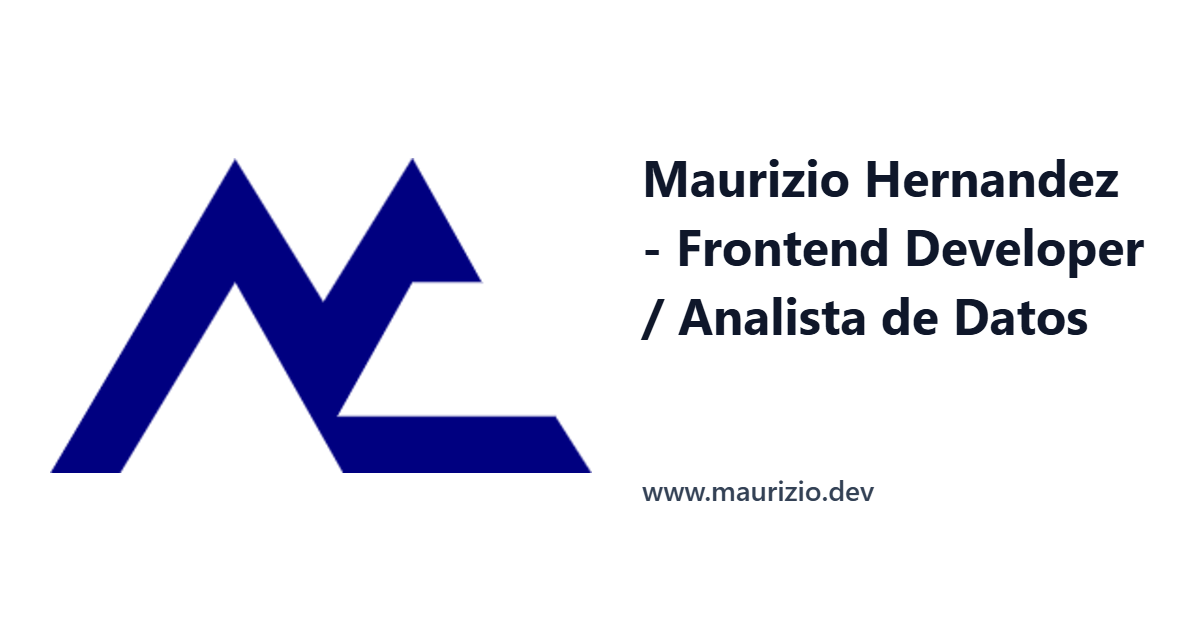
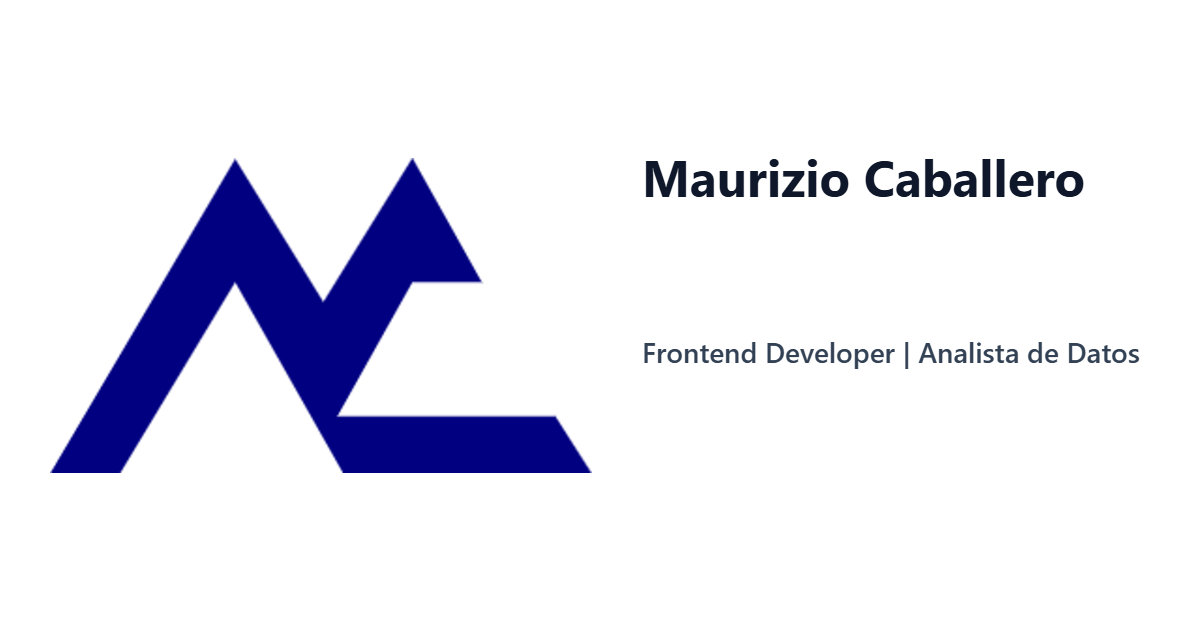
apellido caballero

diff --git a/pages/index.js b/pages/index.js
@@ -113,12 +113,12 @@ export default function Home({ initialView, initialId }) {
     <>
       <Head>
   {/* Título + descripción */}
-  <title>Maurizio Hernández — Frontend Developer (Portafolio)</title>
+  <title>Maurizio Caballero — Frontend Developer (Portafolio)</title>
   <meta
     name="description"
-    content="Portafolio de Maurizio Hernández: proyectos reales, stack (React/Next.js, Tailwind, Framer Motion) y contacto."
+    content="Portafolio de Maurizio Caballero: proyectos reales, stack (React/Next.js, Tailwind, Framer Motion) y contacto."
   />
-  <meta name="author" content="Maurizio Hernández" />
+  <meta name="author" content="Maurizio Caballero" />
   <meta name="application-name" content="devMauriz" />
   <meta name="robots" content="index,follow" />
 
@@ -127,8 +127,8 @@ export default function Home({ initialView, initialId }) {
 
   {/* Open Graph */}
   <meta property="og:type" content="website" />
-  <meta property="og:site_name" content="devMauriz · Maurizio Hernández" />
-  <meta property="og:title" content="Maurizio Hernández — Frontend Developer" />
+  <meta property="og:site_name" content="devMauriz · Maurizio Caballero" />
+  <meta property="og:title" content="Maurizio Caballero — Frontend Developer" />
   <meta
     property="og:description"
     content="Proyectos, experiencia y contacto. Especialista en React y Next.js."
@@ -144,7 +144,7 @@ export default function Home({ initialView, initialId }) {
 
   {/* Twitter Card */}
   <meta name="twitter:card" content="summary_large_image" />
-  <meta name="twitter:title" content="Maurizio Hernández — Frontend Developer" />
+  <meta name="twitter:title" content="Maurizio Caballero — Frontend Developer" />
   <meta
     name="twitter:description"
     content="Proyectos, experiencia y contacto. Especialista en React y Next.js."
@@ -164,7 +164,7 @@ export default function Home({ initialView, initialId }) {
         name: "devMauriz",
         url: siteUrl || "",
         inLanguage: "es-CL",
-        description: "Portafolio de Maurizio Hernández: proyectos, stack y contacto.",
+        description: "Portafolio de Maurizio Caballero: proyectos, stack y contacto.",
         potentialAction: {
           "@type": "SearchAction",
           target: `${siteUrl || ""}/?q={search_term_string}`,
@@ -179,7 +179,7 @@ export default function Home({ initialView, initialId }) {
       __html: JSON.stringify({
         "@context": "https://schema.org",
         "@type": "Person",
-        name: "Maurizio Hernández",
+        name: "Maurizio Caballero",
         jobTitle: "Frontend Developer",
         url: siteUrl || "",
         image: siteUrl ? `${siteUrl.replace(/\/$/, "")}/og/og-1200x630.png` : "/og/og-1200x630.png",

diff --git a/components/SectionAbout.jsx b/components/SectionAbout.jsx
@@ -233,13 +233,13 @@ const ctaBtn = [
   }
 
   // --------- SEO (solo cuando está visible) ----------
-  const aboutTitle = "Sobre mí — Maurizio Hernández"
+  const aboutTitle = "Sobre mí — Maurizio Caballero"
   const aboutDesc =
-    "Conoce a Maurizio Hernández: Frontend Developer (React, Next.js). Experiencia, habilidades, educación y diplomas."
+    "Conoce a Maurizio Caballero: Frontend Developer (React, Next.js). Experiencia, habilidades, educación y diplomas."
   const jsonLdPerson = {
     "@context": "https://schema.org",
     "@type": "Person",
-    name: "Maurizio Hernández",
+    name: "Maurizio Caballero",
     jobTitle: "Frontend Developer",
     description: aboutDesc,
     knowsAbout: [...technologies, ...tools],
@@ -508,7 +508,7 @@ const ctaBtn = [
     >
       <img
         src="/assets/perfil.jpg"
-        alt="Foto de Maurizio Hernández"
+        alt="Foto de Maurizio Caballero"
         className="h-full w-full object-cover object-top"
         onError={(e) => { e.currentTarget.src = "/placeholder.svg" }}
       />
@@ -519,7 +519,7 @@ const ctaBtn = [
 {/* Datos debajo del avatar */}
 <div className="text-center space-y-2 md:space-y-3 pt-2">
   {/* <h1 id="about-title" className="title-main !mb-0">Sobre mí</h1> */}
-  <h2 className="title-section !mb-1"> Hola, Soy Maurizio Hernández</h2>
+  <h2 className="title-section !mb-1"> Hola, Soy Maurizio Caballero</h2>
 
   <p className="text-responsive max-w-3xl mx-auto font-sans leading-relaxed">
     <span className="font-bold">Analista de Sistemas - Desarrollador de Software </span><br/>

diff --git a/components/SectionTwo.jsx b/components/SectionTwo.jsx
@@ -240,10 +240,10 @@ export default function SectionTwo({
       {/* Avatar */}
       <div className="absolute inset-0 z-10 pointer-events-none">
         <div className="absolute inset-0 md:hidden">
-          <Image src="/assets/avatar.png" alt="Avatar Maurizio Hernandez" fill priority sizes="100vw" className="object-cover object-center z-20" />
+          <Image src="/assets/avatar.png" alt="Avatar Maurizio Caballero" fill priority sizes="100vw" className="object-cover object-center z-20" />
         </div>
         <div className="hidden md:block absolute top-0 right-0 bottom-0 w-[60vw] max-w-[900px]">
-          <Image src="/assets/avatar.png" alt="Avatar Maurizio Hernandez" fill priority sizes="(min-width: 1024px) 60vw, 80vw" className="object-contain object-right z-20" />
+          <Image src="/assets/avatar.png" alt="Avatar Maurizio Caballero" fill priority sizes="(min-width: 1024px) 60vw, 80vw" className="object-contain object-right z-20" />
         </div>
       </div>
 
@@ -267,7 +267,7 @@ export default function SectionTwo({
             <h1 className={`text-[1.6rem] leading-[1.15] md:text-4xl lg:text-5xl font-black drop-shadow-[1px_1px_1px_rgba(255,255,255,0.6)] ${accentText}`}>
               ¡Hola! Soy <br />
               <span className={`${isDark ? "bg-cyan-200/10 text-black" : "bg-cyan-100 text-gray-900"} px-1 drop-shadow-[1px_1px_1px_rgba(255,255,255,0.6)]`}>
-                Maurizio Hernández
+                Maurizio Caballero
               </span>
             </h1>
 

diff --git a/pages/_document.js b/pages/_document.js
@@ -24,8 +24,8 @@ export default function Document() {
 
         {/* Open Graph (global por defecto) */}
         <meta property="og:type" content="website" />
-        <meta property="og:site_name" content="Maurizio Hernandez · Frontend Developer" />
-        <meta property="og:title" content="Maurizio Hernández — Frontend Developer" />
+        <meta property="og:site_name" content="Maurizio Caballero · Frontend Developer" />
+        <meta property="og:title" content="Maurizio Caballero — Frontend Developer" />
         <meta
           property="og:description"
           content="Portafolio de desarrollo frontend: proyectos, stack y contacto."
@@ -41,7 +41,7 @@ export default function Document() {
 
         {/* Twitter Card */}
         <meta name="twitter:card" content="summary_large_image" />
-        <meta name="twitter:title" content="Maurizio Hernández — Frontend Developer" />
+        <meta name="twitter:title" content="Maurizio Caballero — Frontend Developer" />
         <meta
           name="twitter:description"
           content="Portafolio de desarrollo frontend: proyectos, stack y contacto."

diff --git a/components/ProjectDetail.jsx b/components/ProjectDetail.jsx
@@ -68,7 +68,7 @@ export default function ProjectDetail({ show, project, onClose, onBackToProjects
 
   // SEO
   const description =
-    project.seoDescription || project.description || `Proyecto "${project.title}" de Maurizio Hernández.`
+    project.seoDescription || project.description || `Proyecto "${project.title}" de Maurizio Caballero.`
   const ogImage = project.ogImage || heroImage
   const siteUrl = process.env.NEXT_PUBLIC_SITE_URL
   const canonical = siteUrl && project?.id ? `${siteUrl}?view=project&id=${project.id}` : undefined
@@ -85,7 +85,7 @@ export default function ProjectDetail({ show, project, onClose, onBackToProjects
     "@type": "SoftwareSourceCode",
     name: project.title || "Proyecto",
     description,
-    author: { "@type": "Person", name: "Maurizio Hernández" },
+    author: { "@type": "Person", name: "Maurizio Caballero" },
     programmingLanguage: project.technologies || [],
     codeRepository: project.githubUrl || undefined,
     url: project.liveUrl || undefined,

diff --git a/components/MenuOverlay.jsx b/components/MenuOverlay.jsx
@@ -35,11 +35,11 @@ export default function MenuOverlay({ show, onClose, onProjectSelect, onContactO
 
   // SEO sólo cuando se muestra el overlay
   const seoDescription =
-    "Explora el portafolio de proyectos de Maurizio Hernández: React, Next.js, Tailwind y más."
+    "Explora el portafolio de proyectos de Maurizio Caballero: React, Next.js, Tailwind y más."
   const jsonLd = {
     "@context": "https://schema.org",
     "@type": "ItemList",
-    name: "Proyectos de Maurizio Hernández",
+    name: "Proyectos de Maurizio Caballero",
     itemListElement: menuProjects.map((p, idx) => ({
       "@type": "ListItem",
       position: idx + 1,

diff --git a/components/SectionContact.jsx b/components/SectionContact.jsx
@@ -54,7 +54,7 @@ export default function SectionContact({ show, onClose }) {
   const siteUrl = process.env.NEXT_PUBLIC_SITE_URL
   const canonical = siteUrl ? `${siteUrl}?view=contact` : undefined
   const contactTitle = "Contacto — devMauriz"
-  const contactDesc = "Ponte en contacto con Maurizio Hernández. Consultas, colaboraciones y oportunidades."
+  const contactDesc = "Ponte en contacto con Maurizio Caballero. Consultas, colaboraciones y oportunidades."
 
   const onChange = (e) => {
     const { name, value } = e.target

diff --git a/components/SectionOne.jsx b/components/SectionOne.jsx
@@ -275,7 +275,7 @@ export default function SectionOne({ onMenuOpen, onVerMas, onContactOpen }) {
       className={`mt-1 inline-block text-3xl sm:text-4xl lg:text-5xl xl:text-6xl font-black px-1
                   ${isDark ? "bg-gray-700 text-white" : "bg-gray-200 text-gray-900"}`}
     >
-      Hernández
+      Caballero
     </div>
   </div>
 

diff --git a/components/LogoMC.jsx b/components/LogoMC.jsx
@@ -1,7 +1,7 @@
 // components/LogoMC.jsx
 export default function LogoMC({
   className = "h-10 w-auto text-cyan-600",
-  title = "Maurizio Hernández",
+  title = "Maurizio Caballero",
 }) {
   return (
   <svg
